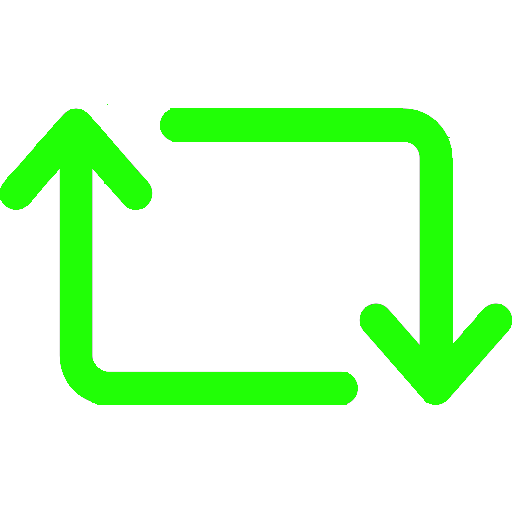
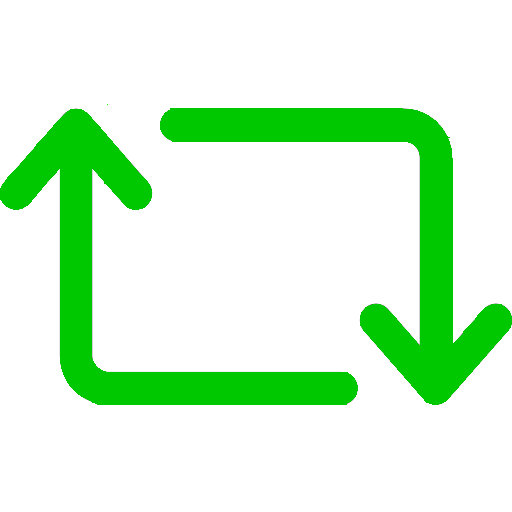
[Add]アクションアイコンにホバーしたときに強調するようにする

Changed region(s): [[0.0, 0.1875, 0.7188, 0.8125], [0.3125, 0.1875, 1.0, 0.8125]]

diff --git a/app/assets/javascripts/hover-action-icon.js b/app/assets/javascripts/hover-action-icon.js
@@ -2,38 +2,41 @@ $(function() {
   $('.reply-info').hover(
     function() {
       //マウスカーソルが重なった時の処理
-      $(this).children('img').attr('src', '/assets/reply-hover.png');
-      $(this).children('.reply-icon').css({'background-color': 'red'});
+      $(this).children('.reply-icon').children('img').attr('src', '/assets/reply-hover.png');
+      $(this).children('.reply-icon').css({'background-color': 'rgba(0,255,255,0.1)'});
     },
     function() { 
       //マウスカーソルが離れた時の処理
       $(this).children('img').attr('src', '/assets/reply.png');
+      $(this).children('.reply-icon').css({'background-color': 'transparent'});
     }
   );
   $('.retweet-info').hover(
     function() {
       //マウスカーソルが重なった時の処理
       $(this).children('.retweet-icon').children('img').attr('src', '/assets/retweet-hover.png');
-      $(this).children('.retweet-icon').css({'background-color': '#33FF33'});
-      $(this).css({'color': '#33FF33'});
+      $(this).children('.retweet-icon').css({'background-color': 'rgba(0,255,0,0.1)'});
+      $(this).css({'color': 'rgba(0,200,0,1)'});
     },
     function() { 
       //マウスカーソルが離れた時の処理
       $(this).children('.retweet-icon').children('img').attr('src', '/assets/retweet.png');
       $(this).css({'color': 'black'});
+      $(this).children('.retweet-icon').css({'background-color': 'transparent'});
     }
   );
   $('.favorite-info').hover(
     function() {
       //マウスカーソルが重なった時の処理
       $(this).children('.favorite-icon').children('img').attr('src', '/assets/favorite-hover.png');
-      $(this).children('.favorite-icon').css({'background-color': 'red'});
+      $(this).children('.favorite-icon').css({'background-color': 'rgba(255,0,0,0.1)'});
       $(this).css({'color': 'red'});
     },
     function() { 
       //マウスカーソルが離れた時の処理
       $(this).children('.favorite-icon').children('img').attr('src', '/assets/favorite.png');
       $(this).css({'color': 'black'});
+      $(this).children('.favorite-icon').css({'background-color': 'transparent'});
     }
   );
 });
